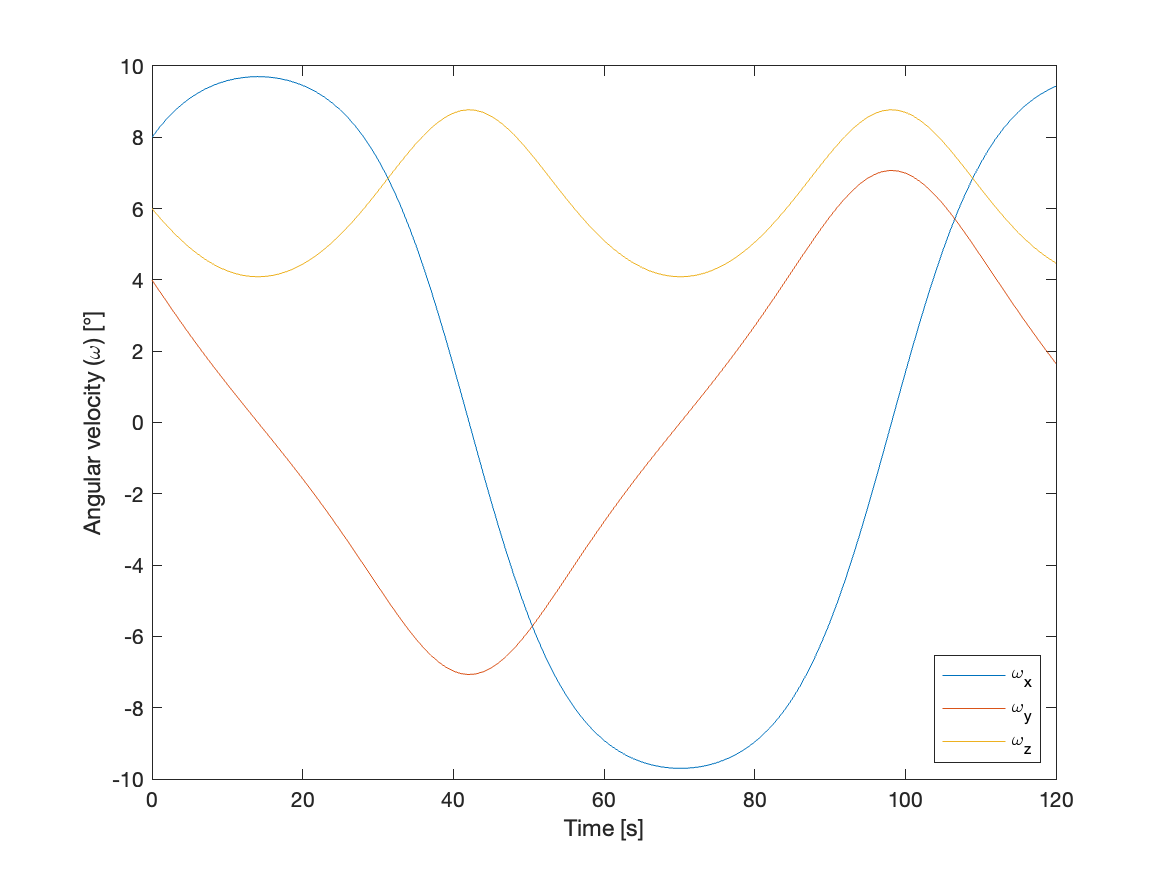
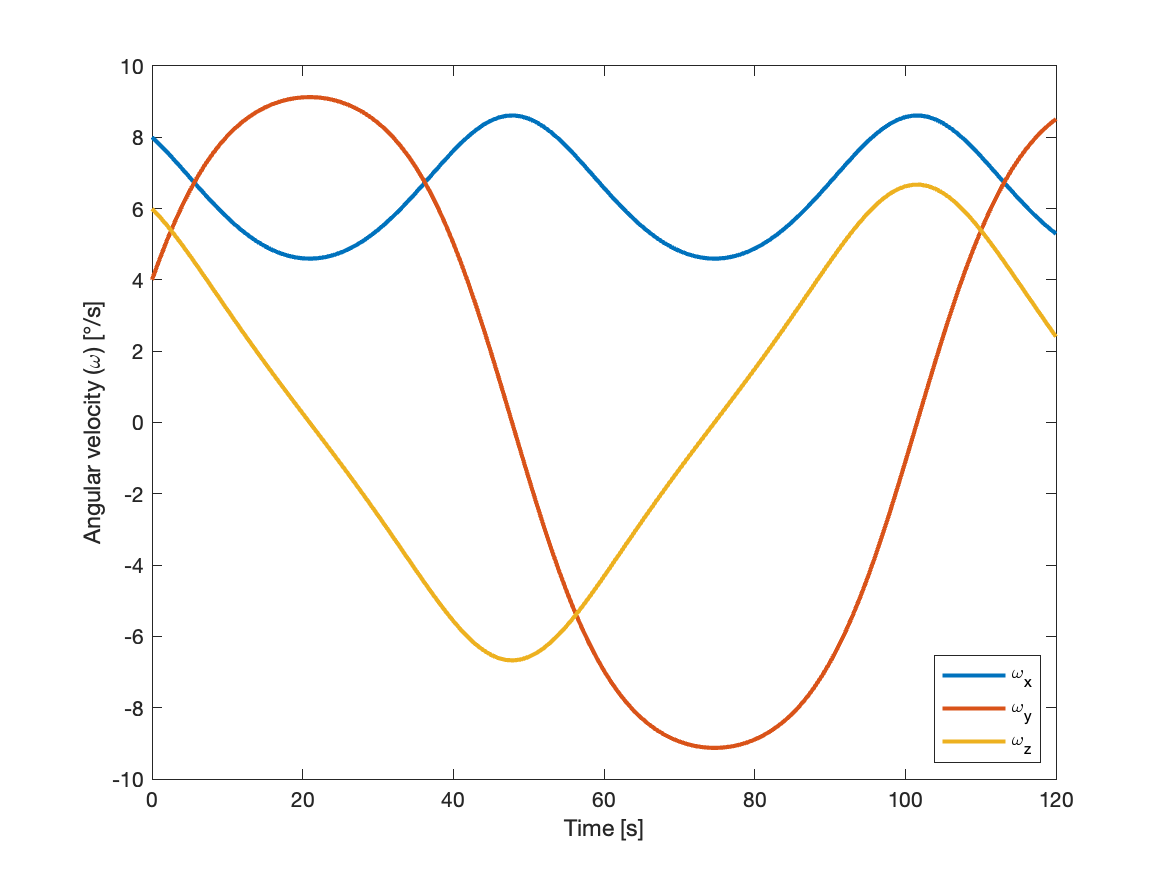
PS2 problems 6-8

diff --git a/src/ps2.m b/src/ps2.m
@@ -32,9 +32,9 @@ cm = computeCM('res/mass.csv');
 I = computeMOI('res/mass.csv',cm);
 
 [rot,IPrincipal] = eig(I);
-Ix = I(1,1);
-Iy = I(2,2);
-Iz = I(3,3);
+Ix = IPrincipal(1,1);
+Iy = IPrincipal(2,2);
+Iz = IPrincipal(3,3);
 xPrincipal = rot(:,1);
 yPrincipal = rot(:,2);
 zPrincipal = rot(:,3);
@@ -48,65 +48,104 @@ quiver = findobj(gca,'type','Quiver');
 textx = findobj(gca,'type','Text','String','x');
 texty = findobj(gca,'type','Text','String','y');
 textz = findobj(gca,'type','Text','String','z');
-set(quiver,'XData',[0;0;0])
-set(quiver,'YData',[0;0;0])
-set(quiver,'ZData',[0;0;0])
-set(textx,'Position',[4 0 0])
-set(texty,'Position',[0 4 0])
-set(textz,'Position',[0 0 4])
+set(quiver,"XData",[0;0;0])
+set(quiver,"YData",[0;0;0])
+set(quiver,"ZData",[0;0;0])
+set(textx,"Position",[4 0 0])
+set(texty,"Position",[0 4 0])
+set(textz,"Position",[0 0 4])
 
 quiverPrincipal = copyobj(quiver,gca);
 textxPrincipal = copyobj(textx,gca);
 textyPrincipal = copyobj(texty,gca);
 textzPrincipal = copyobj(textz,gca);
-set(quiver,'Color',[0 1 0])
-set(quiver,'UData',4.14 * rot(1,:)')
-set(quiver,'VData',4.14 * rot(2,:)')
-set(quiver,'WData',4.14 * rot(3,:)')
-set(quiver,'XData',repmat(cm(1),3,1))
-set(quiver,'YData',repmat(cm(2),3,1))
-set(quiver,'ZData',repmat(cm(3),3,1))
-set(textx,'String','x''')
-set(texty,'String','y''')
-set(textz,'String','z''')
-set(textx,'Position',4 * xPrincipal + cm)
-set(texty,'Position',4 * yPrincipal + cm)
-set(textz,'Position',4 * zPrincipal + cm)
+set(quiver,"Color",[0 1 0])
+set(quiver,"UData",4.14 * rot(1,:)')
+set(quiver,"VData",4.14 * rot(2,:)')
+set(quiver,"WData",4.14 * rot(3,:)')
+set(quiver,"XData",repmat(cm(1),3,1))
+set(quiver,"YData",repmat(cm(2),3,1))
+set(quiver,"ZData",repmat(cm(3),3,1))
+set(textx,"String",'x''')
+set(texty,"String",'y''')
+set(textz,"String",'z''')
+set(textx,"Position",4 * xPrincipal + cm)
+set(texty,"Position",4 * yPrincipal + cm)
+set(textz,"Position",4 * zPrincipal + cm)
 saveas(gcf,'Images/ps2_model.png');
 
 %% Problem 5
 % Define w
-w0 = deg2rad([8;4;6]);
+w0Deg = [8;4;6];
+w0 = deg2rad(w0Deg);
 
 tspan = 0:120;
 options = odeset('RelTol',1e-6,'AbsTol',1e-9);
 [t,w] = ode113(@(t,w) eulerPropagator(t,w,Ix,Iy,Iz),tspan,w0,options);
 
-w = rad2deg(w);
+wDeg = rad2deg(w);
 
 figure(1)
-plot(t,w)
+plot(t,wDeg,'LineWidth',2)
 legend('\omega_{x}','\omega_{y}','\omega_{z}','Location','southeast')
 xlabel('Time [s]')
-ylabel(['Angular velocity (\omega) [' char(176) ']'])
+ylabel(['Angular velocity (\omega) [' char(176) '/s]'])
 saveas(1,'Images/ps2_euler_equations.png')
 
-%% Problem 6 (Energy)
-wx0 = w0(1);
-wy0 = w0(2);
-wz0 = w0(3);
-syms wx wy wz
+%% Problem 6
+T = sum(IPrincipal * w0.^2,"all") / 2;
+L = sqrt(sum((w0.*IPrincipal).^2,"all"));
 
-% Energy ellipsoid
-T = (wy0^2*Iy + wz0^2*Iz + wx0^2*Ix) / 2;
-energyEllipsoid = wy.^2/(2*T/Iy) + wz.^2/(2*T/Iz) + wx.^2/(2*T/Ix) - 1;
-wzEnergy = solve(energyEllipsoid,wz);
-fsurf(wzEnergy)
+[XE,YE,ZE] = ellipsoid(0,0,0,sqrt(2*T/Ix),sqrt(2*T/Iy),sqrt(2*T/Iz),50);
+[XM,YM,ZM] = ellipsoid(0,0,0,L/Ix,L/Iy,L/Iz,50);
+
+energyEllipsoid = surf(XE,YE,ZE,'FaceAlpha',0.5,'FaceColor','blue','DisplayName','Energy Ellipsoid');
+xlabel('\omega_{x} [rad/s]')
+ylabel('\omega_{y} [rad/s]')
+zlabel('\omega_{z} [rad/s]')
+axis equal
 hold on
-
-% Momentum ellipsoid
-L = sqrt(wy0^2*Iy^2 + wz0^2*Iz^2 + wx0^2*Ix^2);
-momentumEllipsoid = wy.^2/(L^2/Iy^2) + wz.^2/(L^2/Iz^2) + wx.^2/(L^2/Ix^2) - 1;
-wzMomentum = solve(momentumEllipsoid,wz);
-fsurf(wzMomentum)
+momentumEllipsoid = surf(XM,YM,ZM,'FaceAlpha',0.5,'FaceColor','green','DisplayName','Momentum Ellipsoid');
+legend('Location','northwest')
 hold off
+saveas(1,'Images/ps2_problem6.png')
+
+%% Problem 7
+energyEllipsoid = surf(XE,YE,ZE,'FaceAlpha',0.5,'FaceColor','blue','DisplayName','Energy Ellipsoid');
+xlabel('\omega_{x} [rad/s]')
+ylabel('\omega_{y} [rad/s]')
+zlabel('\omega_{z} [rad/s]')
+axis equal
+hold on
+momentumEllipsoid = surf(XM,YM,ZM,'FaceAlpha',0.5,'FaceColor','green','DisplayName','Momentum Ellipsoid');
+plot3(w(:,1),w(:,2),w(:,3),'LineWidth',2,'Color','red','DisplayName','Polhode')
+legend('Location','northwest')
+hold off
+saveas(1,'Images/ps2_problem7.png')
+
+%% Problem 8
+subplot(1,3,1)
+plot(w(:,2),w(:,3))
+title('Polhode (along x-axis)')
+xlabel('\omega_{y} [rad/s]')
+ylabel('\omega_{z} [rad/s]')
+axis equal
+
+subplot(1,3,2)
+plot(w(:,1),w(:,3))
+title('Polhode (along y-axis)')
+xlabel('\omega_{x} [rad/s]')
+ylabel('\omega_{z} [rad/s]')
+axis equal
+
+subplot(1,3,3)
+plot(w(:,1),w(:,2))
+title('Polhode (along z-axis)')
+xlabel('\omega_{x} [rad/s]')
+ylabel('\omega_{y} [rad/s]')
+axis equal
+saveas(1,'Images/ps2_problem8.png')
+
+%% Problem 9 (Plot new ellipsoid and 3D polhode)
+
+%% Problem 9 (Plot 2D ellipsoids)

diff --git a/src/computeMOI.m b/src/computeMOI.m
@@ -1,8 +1,8 @@
-function I = computeMOI(filename,origin)
+function I = computeMOI(filename,reference)
     data = readmatrix(filename);
-    x = data(:,1) - origin(1);
-    y = data(:,2) - origin(2);
-    z = data(:,3) - origin(3);
+    x = data(:,1) - reference(1);
+    y = data(:,2) - reference(2);
+    z = data(:,3) - reference(3);
     m = data(:,4);
     m_bus = m(1);
     m_RIS = m(2);

diff --git a/src/eulerPropagator.m b/src/eulerPropagator.m
@@ -1,4 +1,4 @@
-function [wDot] = eulerPropagator(t, w, Ix, Iy, Iz)
+function [wDot] = eulerPropagator(t,w,Ix,Iy,Iz)
     wx = w(1);
     wy = w(2);
     wz = w(3);
